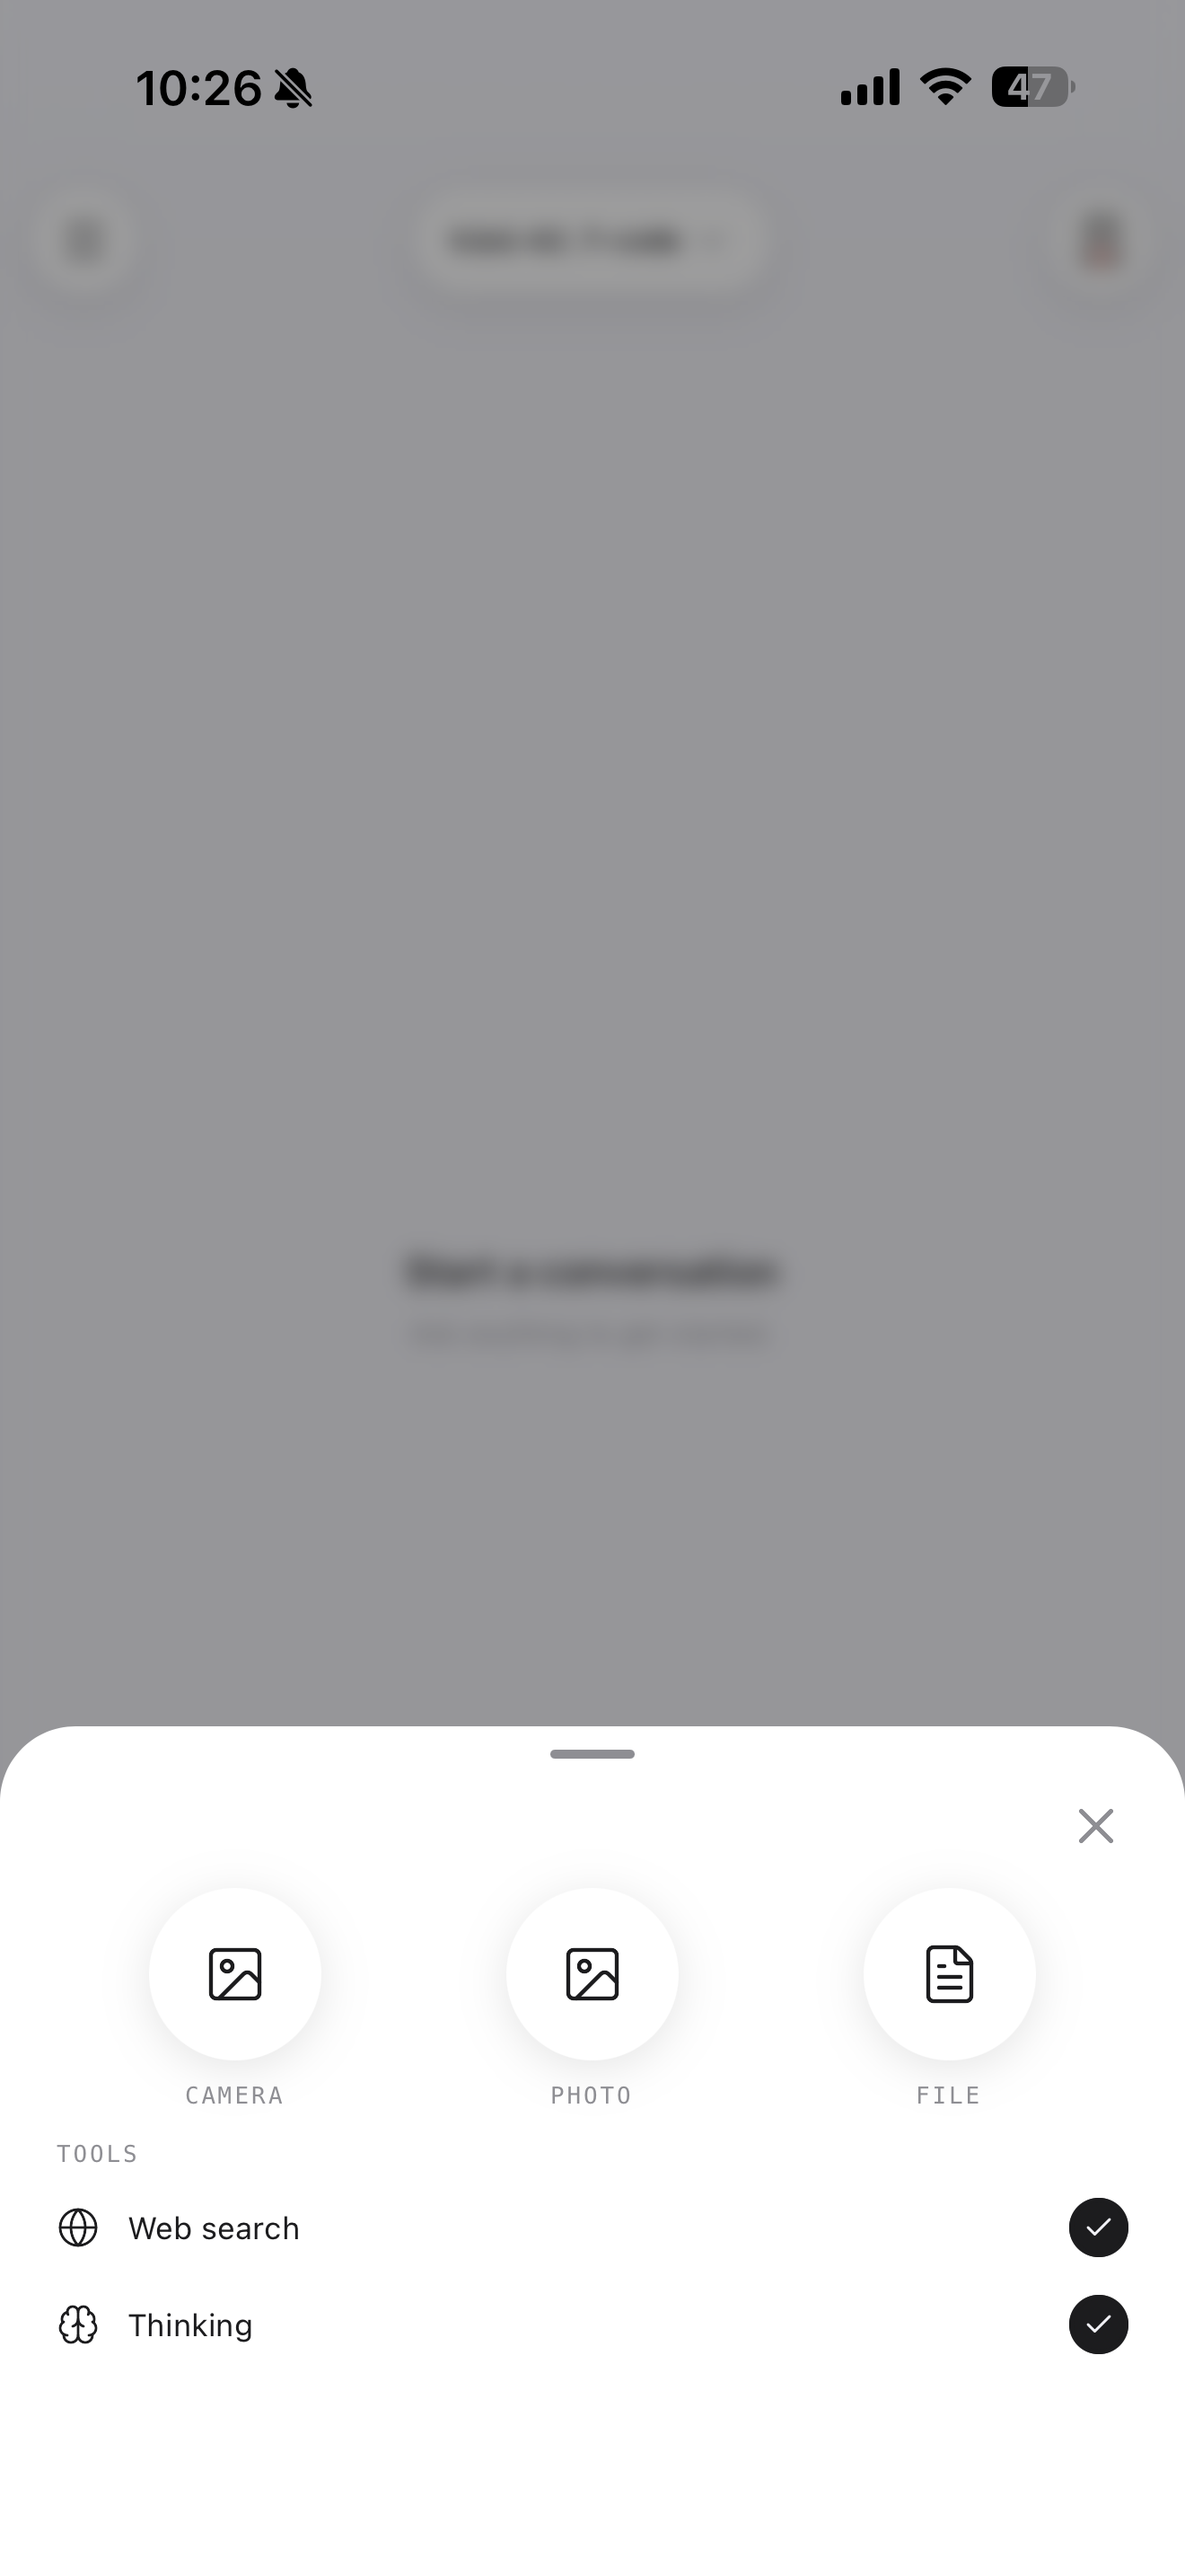
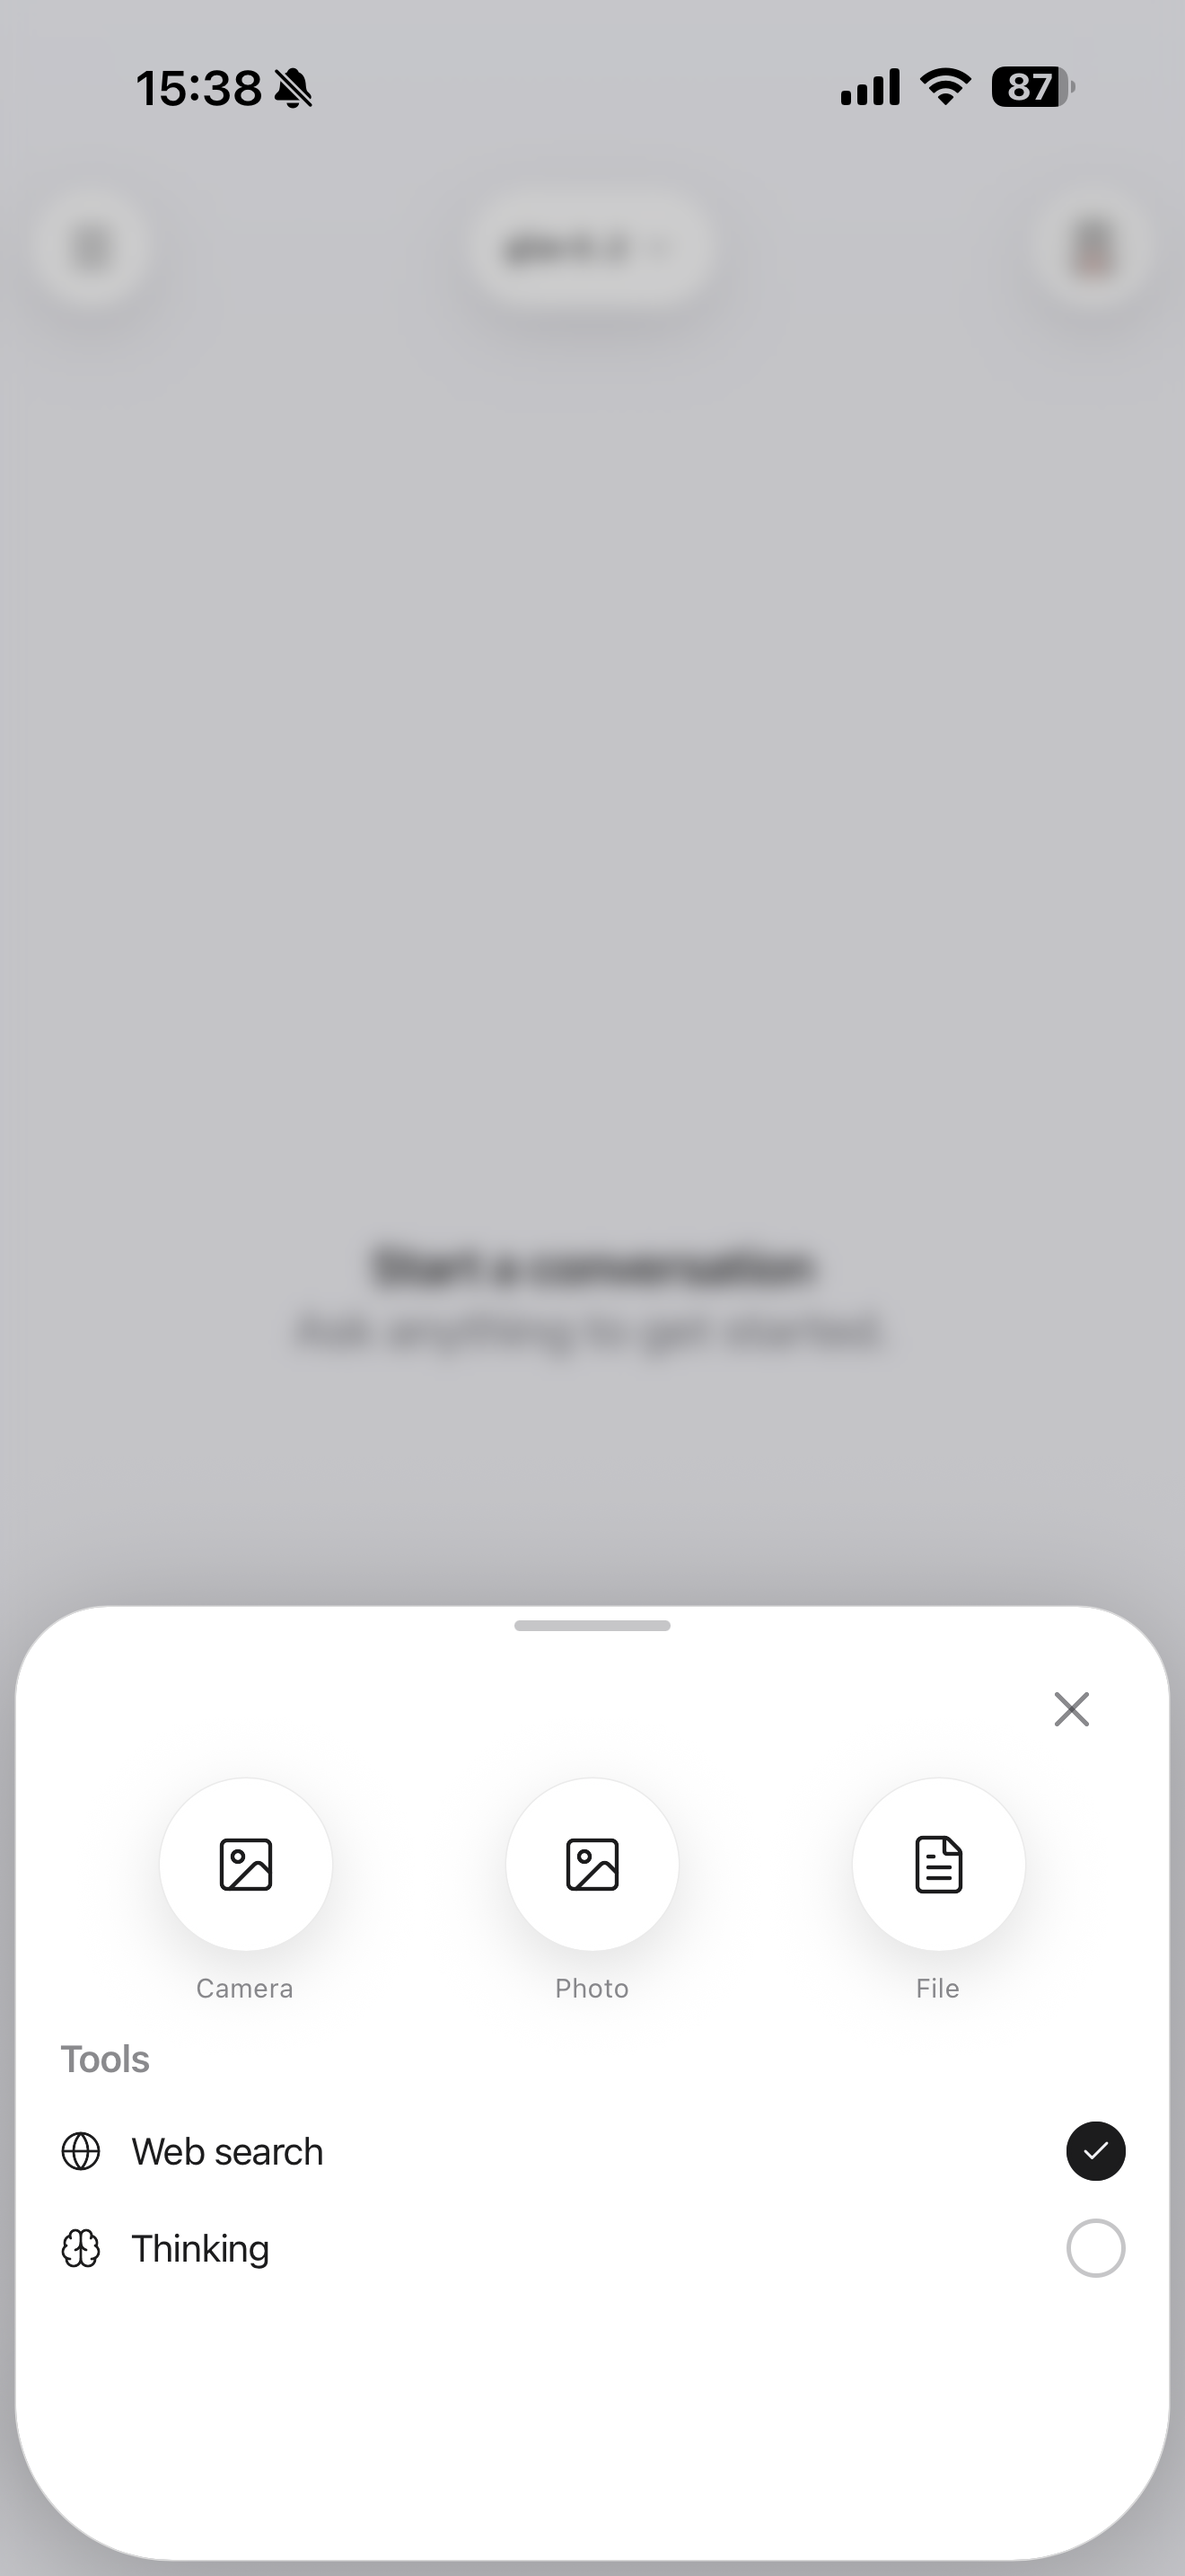
docs: bring the README, screenshots and store assets up to 0.2 (#34)
* docs(readme): name the two features 0.2 adds, and what actually travels

- The feature list never mentioned acting on part of a reply or asking about a document, which are the two things this version is for.
- Two sentences claimed the only thing leaving the phone is the message you send. With earlier turns replayed on every request — and a document's pages too, on a vision model — what travels is the conversation, which is what docs/PRIVACY.md now says.

* docs(readme): reshoot the screenshots on 0.2

- All six dated from the initial public release and showed an app that no longer exists: no iOS 27 surfaces, the chat list still a sheet rather than a page, no thinking block, no attachment hub.
- Same filenames and the same 1320x2868, so the README embeds need no change. The login shot carries v0.2.0 (build 7), which is the number the first submitted build will hold.
- The set is 815 KB heavier than the one it replaces; docs/ never reaches the bundle, and no PNG optimiser is installed here to trim it losslessly.

* chore(infra): anchor the ios/ ignore rule to the repo root

- Written without a leading slash, the pattern matched at any depth, so any ios/ folder anywhere was silently invisible to git — including docs/store/ios/, whose absence would only have surfaced from someone else's clone.
[…]

diff --git a/docs/store/ios/generate-iphone.py b/docs/store/ios/generate-iphone.py
@@ -1,0 +1,356 @@
+#!/usr/bin/env python3
+"""Compose App Store marketing frames from the raw captures in docs/screenshots.
+
+Device chrome is Apple's official iPhone 16 Pro Max frame (Natural Titanium),
+vendored from Apple Design Resources via mockify — 1470x3000, screen hole
+transparent, Dynamic Island on the overlay. We do not draw a second island.
+"""
+
+from __future__ import annotations
+
+from dataclasses import dataclass
+from pathlib import Path
+
+from PIL import Image, ImageDraw, ImageFilter, ImageFont
+
+# Raw captures live beside the README set, two levels up; the composed frames land next to this script.
+ROOT = Path(__file__).resolve().parents[2] / "screenshots"
+OUT = Path(__file__).resolve().parent
+FRAME_PNG = OUT / "device-iphone-16-pro-max-natural.png"
+
+W, H = 1320, 2868
+SCALE = 2
+CW, CH = W * SCALE, H * SCALE
+
+# Fractions from Apple's 16 Pro Max resource (1470x3000).
+FRAME_SCREEN = {
+    "left": 0.052381,
+    "top": 0.022667,
+    "width": 0.894558,
+    "height": 0.954333,
+    "radius": 0.133333,
+}
+
+FONTS = Path("/Library/Fonts")
+SF_DISPLAY_BOLD = FONTS / "SF-Pro-Display-Bold.otf"
+SF_TEXT_REGULAR = FONTS / "SF-Pro-Text-Regular.otf"
+SF_TEXT_SEMIBOLD = FONTS / "SF-Pro-Text-Semibold.otf"
+NY_ITALIC = Path("/System/Library/Fonts/NewYorkItalic.ttf")
+
+BLUE = (0, 136, 255)
+INK = (28, 28, 30)
+
+
+@dataclass(frozen=True)
+class Slide:
+    source: str
+    filename: str
+    kicker: str
+    title: str
+    italic: str
+    sub: str
+    bg_top: tuple[int, int, int]
+    bg_bottom: tuple[int, int, int]
+    ink: tuple[int, int, int]
+    muted: tuple[int, ...]
+    accent: tuple[int, int, int]
+    orbs: tuple[tuple[int, int, tuple[int, int, int], int], ...]
+
+
+# 01 is the home shot — Matteo's favourite. Everything else shifts down.
+SLIDES: tuple[Slide, ...] = (
+    Slide(
+        source="home.png",
+        filename="iphone-1.png",
+        kicker="FROM HOME",
+        title="Open. Type.",
+        italic="That's it.",
+        sub="A streamed reply in three taps.",
+        bg_top=(242, 242, 247),
+        bg_bottom=(230, 230, 236),
+        ink=INK,
+        muted=(60, 60, 67, 153),
+        accent=BLUE,
+        orbs=((660, 1900, (255, 255, 255), 70), (1080, 2300, (0, 136, 255), 22)),
+    ),
+    Slide(
+        source="open_model.png",
+        filename="iphone-2.png",
+        kicker="OPEN MODELS",
+        title="Open models.",
+        italic="On your phone.",
+        sub="Pick any cloud model. Start typing.",
+        bg_top=(244, 244, 248),
+        bg_bottom=(232, 232, 238),
+        ink=INK,
+        muted=(60, 60, 67, 153),
+        accent=BLUE,
+        orbs=((220, 1680, (255, 255, 255), 90), (1100, 2200, (0, 136, 255), 28)),
+    ),
+    Slide(
+        source="chat.png",
+        filename="iphone-3.png",
+        kicker="REASONING",
+        title="Watch it",
+        italic="think.",
+        sub="Open the reasoning. Or hide it.",
+        bg_top=(232, 238, 246),
+        bg_bottom=(217, 228, 240),
+        ink=INK,
+        muted=(60, 60, 67, 153),
+        accent=BLUE,
+        orbs=((180, 1760, (255, 255, 255), 80), (1080, 2100, (0, 136, 255), 36)),
+    ),
+    Slide(
+        source="compose.png",
+        filename="iphone-4.png",
+        kicker="ATTACH",
+        title="Attach anything.",
+        italic="Ask about it.",
+        sub="Photos, PDFs, files — and the live web.",
+        bg_top=(226, 237, 248),
+        bg_bottom=(208, 224, 242),
+        ink=INK,
+        muted=(60, 60, 67, 153),
+        accent=BLUE,
+        orbs=((200, 1720, (255, 255, 255), 88), (1120, 2240, (0, 136, 255), 40)),
+    ),
+    Slide(
+        source="history.png",
+        filename="iphone-5.png",
+        kicker="PRIVACY FIRST",
+        title="Your chats",
+        italic="stay here.",
+        sub="No Quock server. History lives on this phone.",
+        bg_top=(243, 238, 232),
+        bg_bottom=(232, 224, 214),
+        ink=INK,
+        muted=(60, 60, 67, 153),
+        accent=BLUE,
+        orbs=((240, 1700, (255, 252, 246), 88), (1040, 2300, (172, 127, 94), 22)),
+    ),
+    Slide(
+        source="login.png",
+        filename="iphone-6.png",
+        kicker="ONE ACCOUNT",
+        title="Sign in once.",
+        italic="In your pocket.",
+        sub="Your ollama.com account.",
+        bg_top=(242, 242, 247),
+        bg_bottom=(234, 234, 240),
+        ink=INK,
+        muted=(60, 60, 67, 153),
+        accent=BLUE,
+        orbs=((660, 1980, (255, 255, 255), 64), (1040, 2360, (0, 136, 255), 20)),
+    ),
+)
+
+OBSOLETE = (
+    "01-three-taps.png",
+    "02-open-models.png",
+    "03-watch-it-think.png",
+    "04-attach-anything.png",
+    "05-chats-stay.png",
+    "06-in-your-pocket.png",
+    "01-open-models.png",
+    "02-watch-it-think.png",
+    "03-attach-anything.png",
+    "04-chats-stay.png",
+    "05-three-taps.png",
+    "03-attach-a-photo.png",
+    "05-yours-local.png",
+    "06-sign-in-once.png",
+)
+
+
+def font(path: Path, size: int) -> ImageFont.FreeTypeFont:
+    return ImageFont.truetype(str(path), size)
+
+
+def lerp_rgb(
+    a: tuple[int, int, int], b: tuple[int, int, int], t: float
+) -> tuple[int, int, int]:
+    return (
+        int(a[0] + (b[0] - a[0]) * t),
+        int(a[1] + (b[1] - a[1]) * t),
+        int(a[2] + (b[2] - a[2]) * t),
+    )
+
+
+def vertical_gradient(
+    size: tuple[int, int],
+    top: tuple[int, int, int],
+    bottom: tuple[int, int, int],
+) -> Image.Image:
+    strip = Image.new("RGB", (1, size[1]))
+    px = strip.load()
+    last = size[1] - 1
+    for y in range(size[1]):
+        px[0, y] = lerp_rgb(top, bottom, y / last)
+    return strip.resize(size, Image.Resampling.BILINEAR)
+
+
+def orb(diameter: int, color: tuple[int, int, int], opacity: int) -> Image.Image:
+    layer = Image.new("RGBA", (diameter, diameter), (0, 0, 0, 0))
+    ImageDraw.Draw(layer).ellipse(
+        (0, 0, diameter - 1, diameter - 1),
+        fill=(*color, opacity),
+    )
+    return layer.filter(ImageFilter.GaussianBlur(diameter // 5))
+
+
+def grain(size: tuple[int, int], amount: int, opacity: int) -> Image.Image:
+    noise = Image.effect_noise(size, amount).convert("L")
+    overlay = Image.new("RGBA", size, (0, 0, 0, 0))
+    overlay.putalpha(noise.point(lambda p: int(p * opacity / 255)))
+    return overlay
+
+
+def tracked_text(
+    draw: ImageDraw.ImageDraw,
+    text: str,
+    typeface: ImageFont.FreeTypeFont,
+    xy: tuple[int, int],
+    fill: tuple[int, ...],
+    tracking: float,
+) -> None:
+    x, y = xy
+    for char in text:
+        draw.text((x, y), char, font=typeface, fill=fill)
+        x += typeface.getlength(char) + tracking
+
+
+def wrap_text(text: str, typeface: ImageFont.FreeTypeFont, max_width: int) -> list[str]:
+    words = text.split()
+    lines: list[str] = []
+    current = ""
+    for word in words:
+        trial = f"{current} {word}".strip()
+        if typeface.getlength(trial) <= max_width:
+            current = trial
+        else:
+            if current:
+                lines.append(current)
+            current = word
+    if current:
+        lines.append(current)
+    return lines
+
+
+def round_mask(size: tuple[int, int], radius: int) -> Image.Image:
+    mask = Image.new("L", size, 0)
+    ImageDraw.Draw(mask).rounded_rectangle((0, 0, size[0] - 1, size[1] - 1), radius, fill=255)
+    return mask
+
+
+def load_capture(name: str) -> Image.Image:
+    return Image.open(ROOT / name).convert("RGB")
+
+
+def device_frame(capture: Image.Image, frame_w: int) -> Image.Image:
+    frame = Image.open(FRAME_PNG).convert("RGBA")
+    frame_h = int(frame.height * frame_w / frame.width)
+    frame = frame.resize((frame_w, frame_h), Image.Resampling.LANCZOS)
+
+    sx = int(frame_w * FRAME_SCREEN["left"])
+    sy = int(frame_h * FRAME_SCREEN["top"])
+    sw = int(frame_w * FRAME_SCREEN["width"])
+    sh = int(frame_h * FRAME_SCREEN["height"])
+    radius = int(frame_w * FRAME_SCREEN["radius"])
+
+    screen = capture.resize((sw, sh), Image.Resampling.LANCZOS)
+    clipped = Image.new("RGBA", (sw, sh))
+    clipped.paste(screen, (0, 0))
+    clipped.putalpha(round_mask((sw, sh), radius))
+
+    device = Image.new("RGBA", (frame_w, frame_h), (0, 0, 0, 0))
+    device.paste(clipped, (sx, sy), clipped)
+    # Island + bezel sit on top so we never draw a second pill.
+    return Image.alpha_composite(device, frame)
+
+
+def paint_shadow(field: Image.Image, box: tuple[int, int, int, int]) -> None:
+    x, y, w, h = box
+    ambient = Image.new("RGBA", field.size, (0, 0, 0, 0))
+    ImageDraw.Draw(ambient).rounded_rectangle(
+        (x + int(24 * SCALE), y + int(32 * SCALE), x + w - int(24 * SCALE), y + h + int(16 * SCALE)),
+        radius=int(90 * SCALE),
+        fill=(20, 20, 24, 28),
+    )
+    field.alpha_composite(ambient.filter(ImageFilter.GaussianBlur(int(28 * SCALE))))
+
+
+def compose(slide: Slide) -> Image.Image:
+    field = vertical_gradient((CW, CH), slide.bg_top, slide.bg_bottom).convert("RGBA")
+    for cx, cy, color, opacity in slide.orbs:
+        disc = orb(int(880 * SCALE), color, opacity)
+        field.alpha_composite(
+            disc, (int(cx * SCALE - disc.width / 2), int(cy * SCALE - disc.height / 2))
+        )
+    field = Image.alpha_composite(field, grain((CW, CH), 18, 10))
+
+    draw = ImageDraw.Draw(field)
+    pad_x = int(72 * SCALE)
+    max_text = CW - pad_x * 2
+
+    kicker_font = font(SF_TEXT_SEMIBOLD, int(24 * SCALE))
+    title_font = font(SF_DISPLAY_BOLD, int(114 * SCALE))
+    italic_font = font(NY_ITALIC, int(114 * SCALE))
+    sub_font = font(SF_TEXT_REGULAR, int(30 * SCALE))
+
+    y = int(136 * SCALE)
+    tracked_text(draw, slide.kicker, kicker_font, (pad_x, y), slide.muted, tracking=int(4.6 * SCALE))
+
+    y += int(54 * SCALE)
+    draw.text((pad_x, y), slide.title, font=title_font, fill=slide.ink)
+    title_box = draw.textbbox((pad_x, y), slide.title, font=title_font)
+
+    y = title_box[3] - int(4 * SCALE)
+    draw.text((pad_x, y), slide.italic, font=italic_font, fill=slide.accent)
+    italic_box = draw.textbbox((pad_x, y), slide.italic, font=italic_font)
+
+    y = italic_box[3] + int(22 * SCALE)
+    for line in wrap_text(slide.sub, sub_font, max_text):
+        draw.text((pad_x, y), line, font=sub_font, fill=slide.muted)
+        y += int(40 * SCALE)
+
+    text_bottom = y
+    gap = int(28 * SCALE)
+    bottom_margin = int(56 * SCALE)
+    side_margin = int(64 * SCALE)
+    avail_h = CH - text_bottom - gap - bottom_margin
+    avail_w = CW - side_margin * 2
+
+    # Frame aspect is 1470:3000. Height usually binds; keep the whole phone on-canvas.
+    by_h = int(avail_h * 1470 / 3000)
+    frame_w = min(avail_w, by_h)
+
+    phone = device_frame(load_capture(slide.source), frame_w)
+    phone_x = (CW - phone.width) // 2
+    phone_y = text_bottom + gap
+    phone_y = min(phone_y, CH - bottom_margin - phone.height)
+    phone_y = max(phone_y, text_bottom + gap)
+
+    paint_shadow(field, (phone_x, phone_y, phone.width, phone.height))
+    field.alpha_composite(phone, (phone_x, phone_y))
+
+    return field.convert("RGB").resize((W, H), Image.Resampling.LANCZOS)
+
+
+def main() -> None:
+    if not FRAME_PNG.exists():
+        raise SystemExit(f"missing device frame: {FRAME_PNG}")
+    OUT.mkdir(parents=True, exist_ok=True)
+    for name in OBSOLETE:
+        stale = OUT / name
+        if stale.exists():
+            stale.unlink()
+            print(f"removed {name}")
+    for slide in SLIDES:
+        dest = OUT / slide.filename
+        compose(slide).save(dest, "PNG", optimize=True)
+        print(f"wrote {dest.name}")
+
+
+if __name__ == "__main__":
+    main()

diff --git a/README.md b/README.md
@@ -21,14 +21,16 @@ A community-built mobile client for [Ollama Cloud](https://ollama.com). Chat wit
 
 **Quock is a mobile app for using [Ollama Cloud](https://ollama.com) on your phone** — a native chat client for iPhone and Android. Sign in once with your `ollama.com` account, pick any cloud-hosted model — Gemma, Qwen, Llama, GPT-OSS, DeepSeek, and more — and start typing. Answers stream back word by word.
 
-It's deliberately small and focused: **open the app, tap a model, type — a streamed reply in under three taps from home.** Your chat history lives in a local database on the device; the only thing that ever leaves your phone is the message you actively send.
+It's deliberately small and focused: **open the app, tap a model, type — a streamed reply in under three taps from home.** Your chat history lives in a local database on the device; the only thing that ever leaves your phone is the conversation you are actively sending.
 
 ## What it does
 
 - 💬 **Chat in your pocket** — sign in once, pick a model, and start typing. Responses stream back word-by-word.
 - 🧠 **Thinking & web search** — turn on reasoning for models that support it, or let the model search the web mid-answer. Both are per-chat toggles you set once.
-- 🔒 **Conversations stay on your phone** — chat history lives in a local database on your device. The only thing that travels to the cloud is the message you actively send.
+- ✨ **Act on part of an answer** — long-press any paragraph of a reply to send just that piece to a deeper question or a web search, without retyping it.
+- 🔒 **Conversations stay on your phone** — chat history lives in a local database on your device. The only thing that travels to the cloud is the conversation you are actively sending.
 - 🖼 **Add images and screenshots** — drop a photo into the conversation when you're using a vision-capable model.
+- 📄 **Ask about a document** — attach a PDF and question it. Quock reads its text layer, or runs OCR on your device when there is none, and keeps the pages in view as the conversation continues.
 - 🎨 **Quietly beautiful** — light, dark, and system themes with frosted-glass surfaces, smooth animations, and instant scrolling even on long chats.
 
 ## Screenshots
